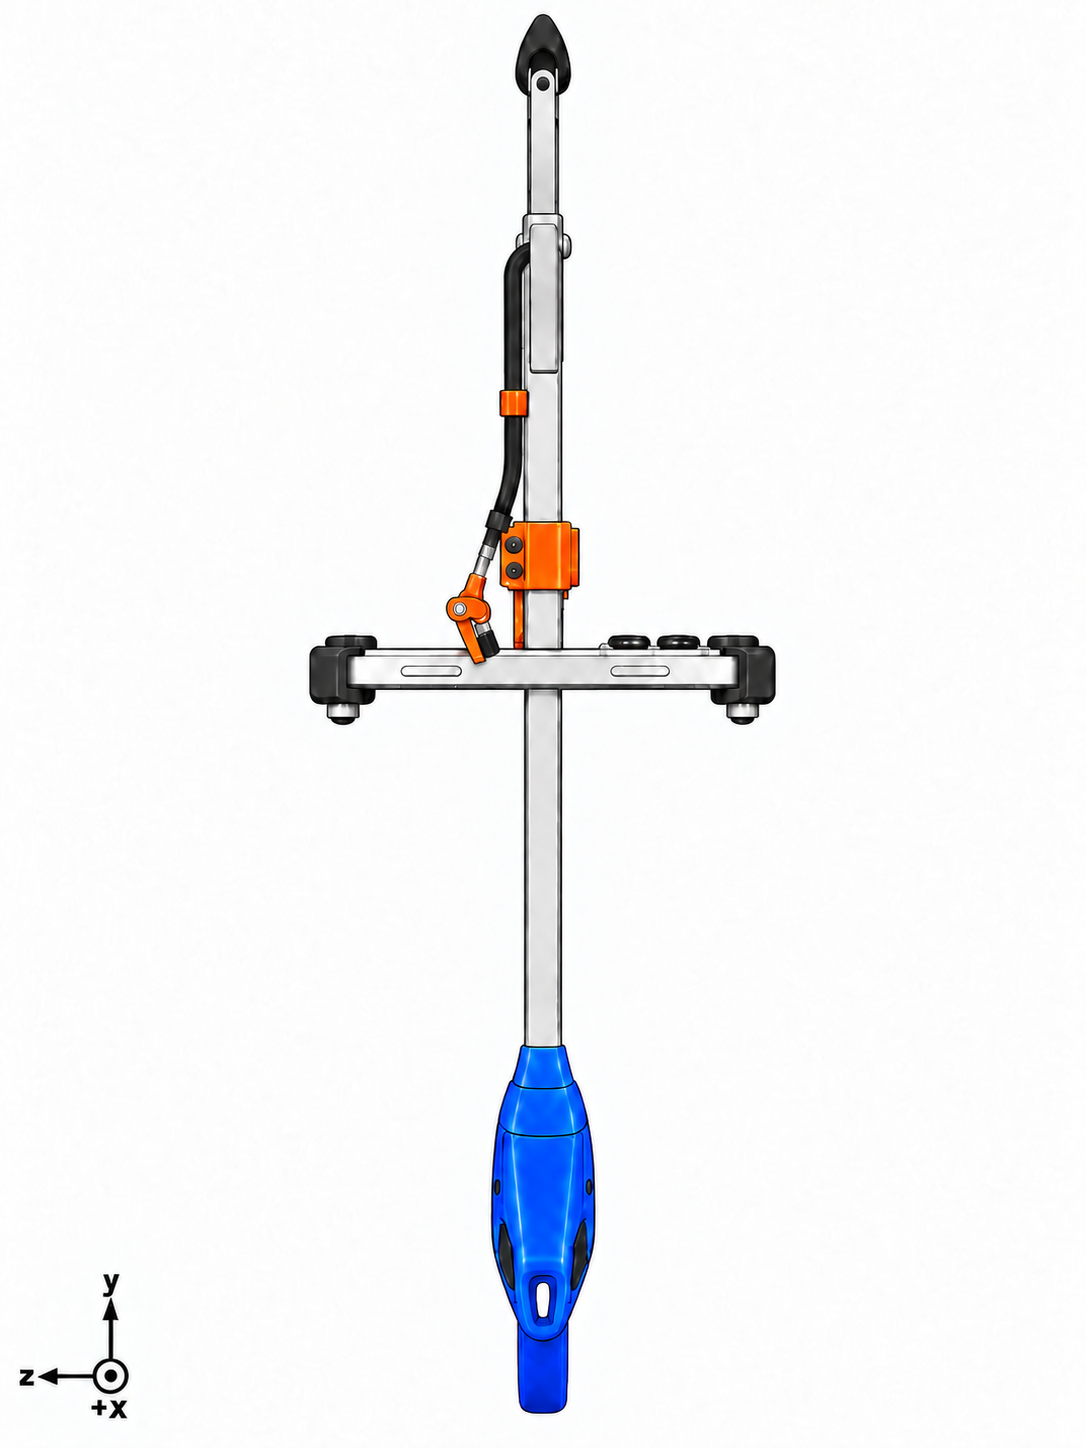
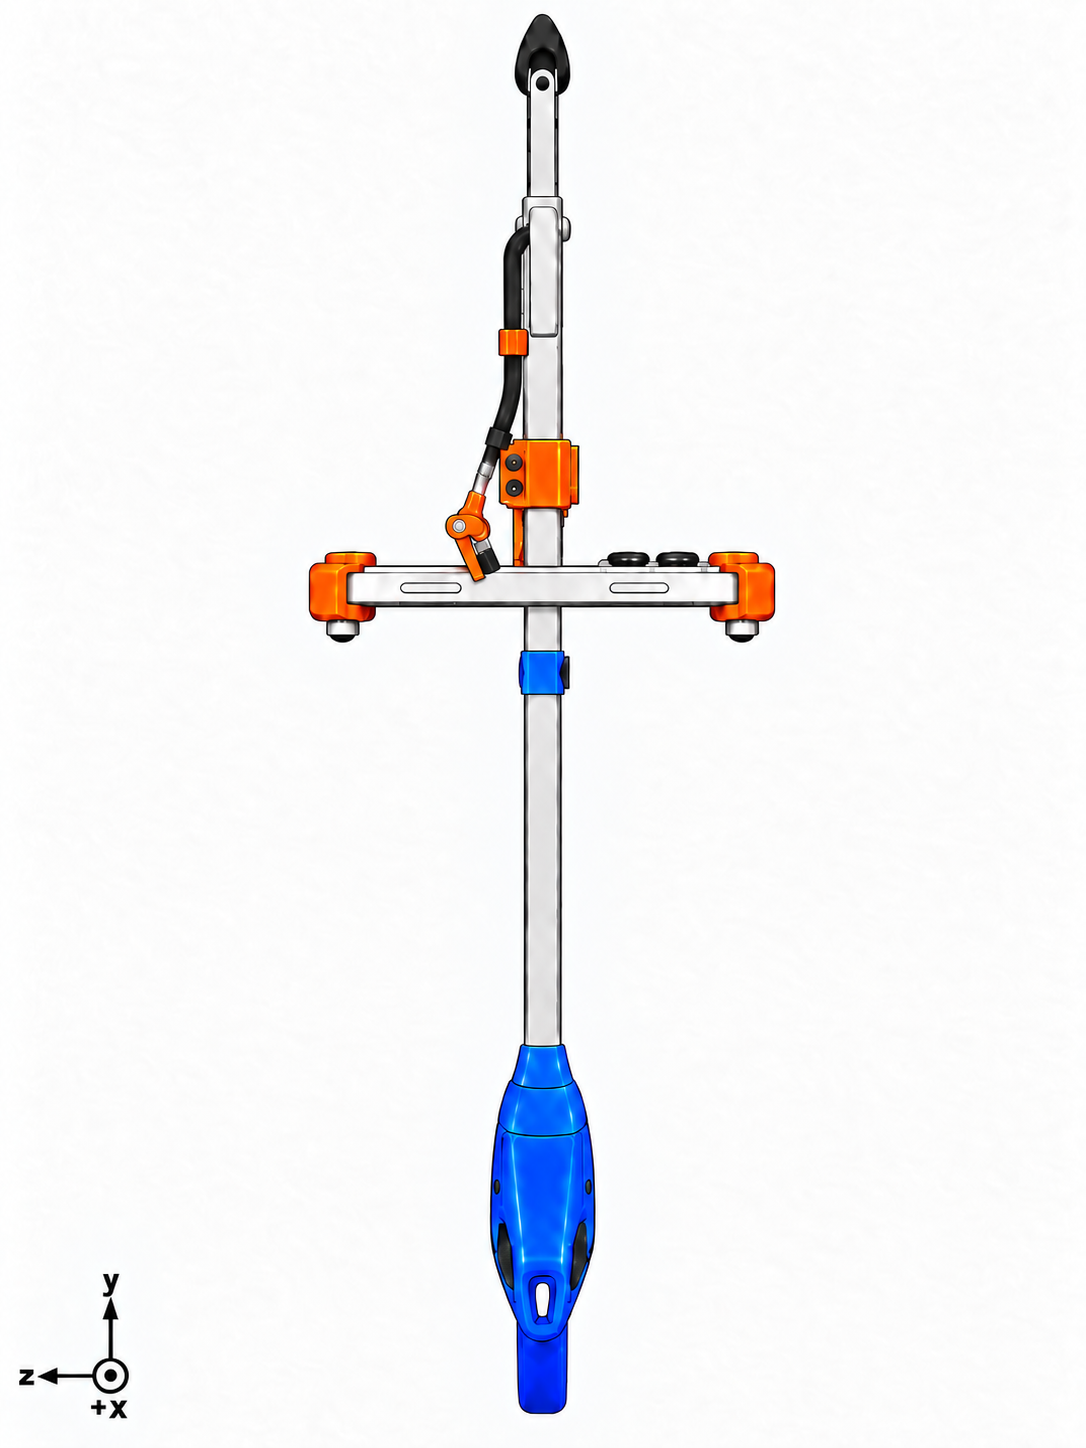
Raise side-view phone to reveal stock center brace

Changed region(s): [[0.2735, 0.0311, 0.7293, 0.9634], [0.0912, 0.9323, 0.1215, 0.9634]]

diff --git a/cad/renders/stock-consistency.md b/cad/renders/stock-consistency.md
@@ -7,7 +7,7 @@ Use [0a](00a-stock-front.png) as the front-view stock baseline and [0b](00b-stoc
 | [1a](01a-complete-front.png) | Two black claw feet, curved silver arms, square silver shaft, blue center brace, blue handle, and black squeeze trigger are retained. The claw span and brace height were revised toward 0a. | Visually consistent as a concept. |
 | [2a](02a-phone-mount-front.png) | The visible V-shaped claws, black feet, square silver neck, and pivot match the 0a stock layout at close-up scale. The center brace and handle are outside the crop. | Visually consistent in the visible area. |
 | [3a](03a-handle-front.png) | The square silver shaft, blue stock handle, and black moving trigger follow 0a at close-up scale. The claw and center brace are outside the crop. | Visually consistent in the visible area. |
-| [1b](01b-complete-side.png) | One overlapping black claw foot, square silver shaft, and front-facing blue handle follow 0b. The blue center brace stays at the stock midshaft location but is hidden by the horizontal phone in this projection. | Visually consistent where visible. |
+| [1b](01b-complete-side.png) | One overlapping black claw foot, square silver shaft, front-facing blue handle, and the blue center brace follow 0b. The phone and orange harness sit higher on the shaft so the stock brace remains visible below them. | Visually consistent as a concept. |
 | [2b](02b-phone-mount-side.png) | One black foot, round claw pivot, and square silver neck follow the inferred 0b side layout at close-up scale. The center brace and handle are outside the crop. | Visually consistent in the visible area. |
 | [3b](03b-handle-side.png) | The square silver shaft and blue handle with centered rear grip follow 0b; the black squeeze trigger is hidden behind the handle. The claw and center brace are outside the crop. | Visually consistent in the visible area. |
 
